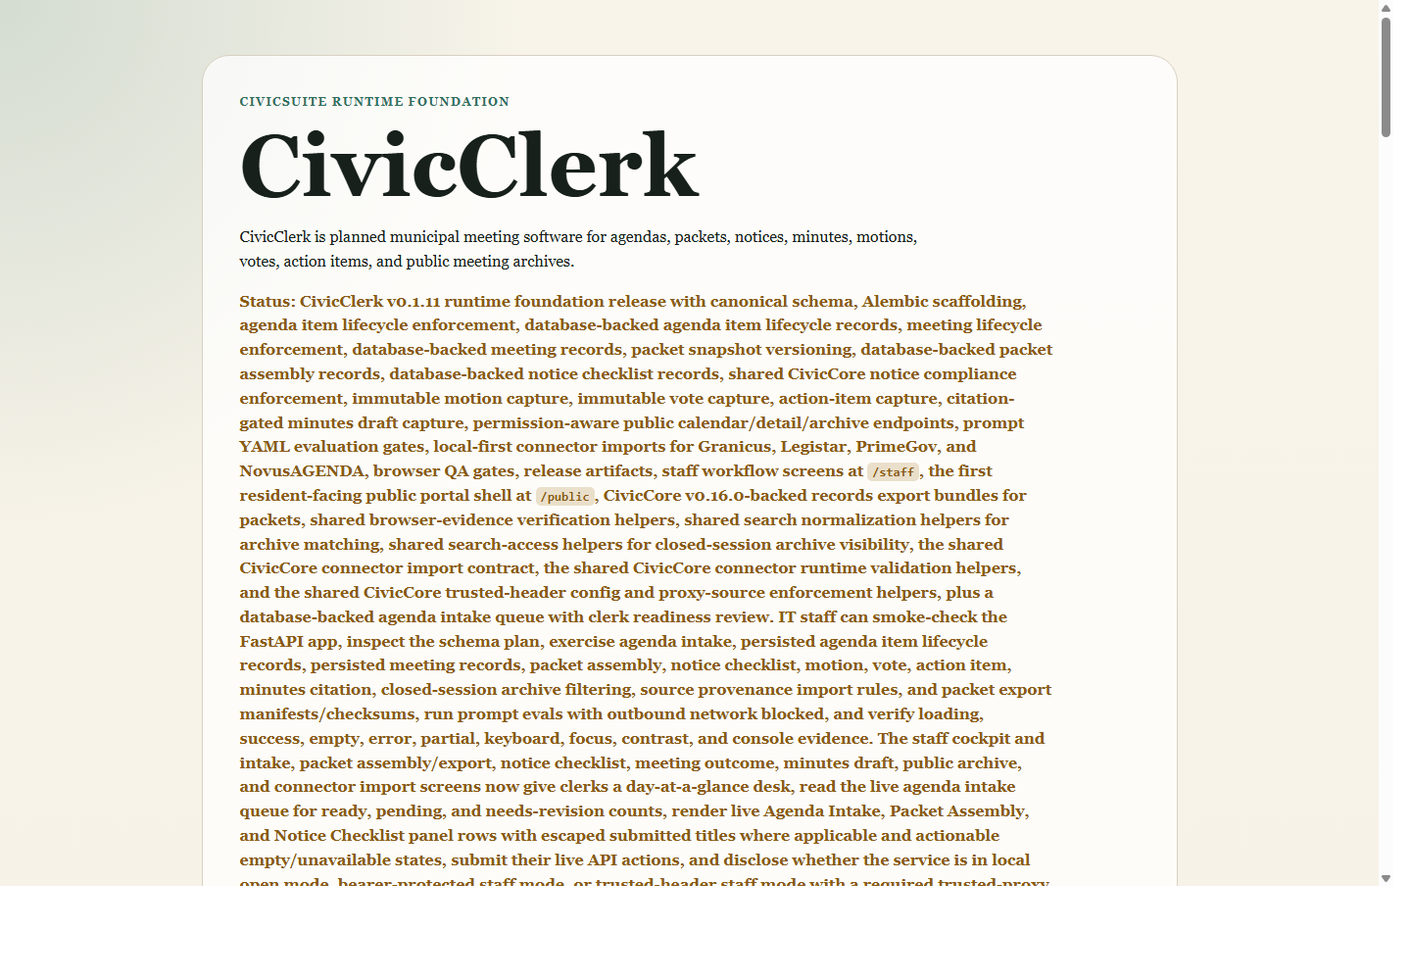
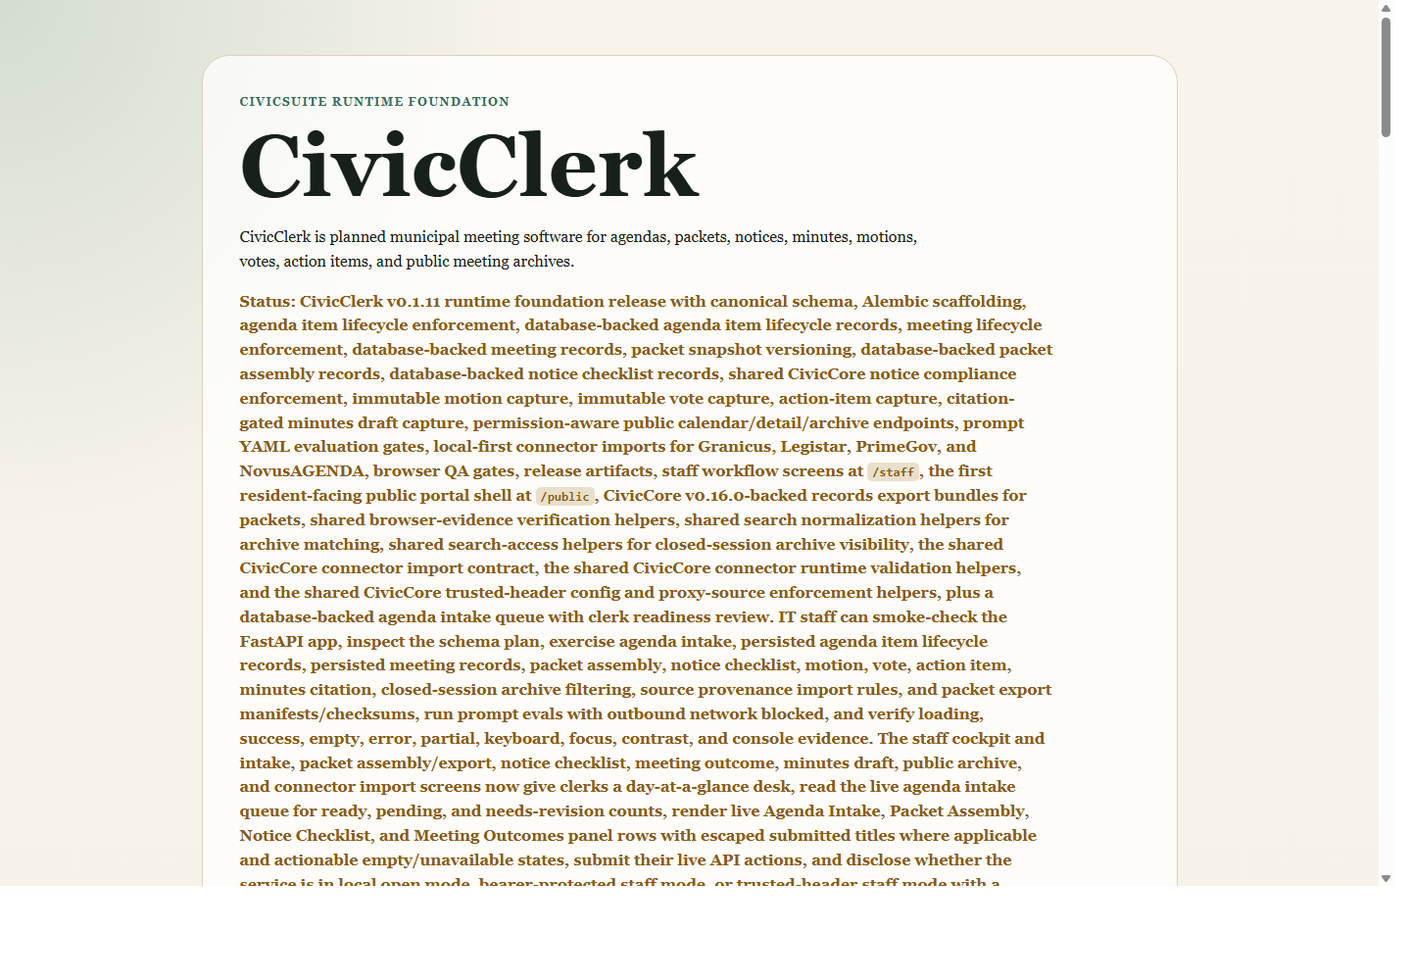
feat: render live meeting outcomes panel (#75)

Changed region(s): [[0.1562, 0.837, 0.75, 0.93]]

diff --git a/docs/index.html b/docs/index.html
@@ -51,7 +51,7 @@
       <div class="eyebrow">CivicSuite runtime foundation</div>
       <h1>CivicClerk</h1>
       <p>CivicClerk is planned municipal meeting software for agendas, packets, notices, minutes, motions, votes, action items, and public meeting archives.</p>
-<p class="status">Status: CivicClerk v0.1.11 runtime foundation release with canonical schema, Alembic scaffolding, agenda item lifecycle enforcement, database-backed agenda item lifecycle records, meeting lifecycle enforcement, database-backed meeting records, packet snapshot versioning, database-backed packet assembly records, database-backed notice checklist records, shared CivicCore notice compliance enforcement, immutable motion capture, immutable vote capture, action-item capture, citation-gated minutes draft capture, permission-aware public calendar/detail/archive endpoints, prompt YAML evaluation gates, local-first connector imports for Granicus, Legistar, PrimeGov, and NovusAGENDA, browser QA gates, release artifacts, staff workflow screens at <code>/staff</code>, the first resident-facing public portal shell at <code>/public</code>, CivicCore v0.16.0-backed records export bundles for packets, shared browser-evidence verification helpers, shared search normalization helpers for archive matching, shared search-access helpers for closed-session archive visibility, the shared CivicCore connector import contract, the shared CivicCore connector runtime validation helpers, and the shared CivicCore trusted-header config and proxy-source enforcement helpers, plus a database-backed agenda intake queue with clerk readiness review. IT staff can smoke-check the FastAPI app, inspect the schema plan, exercise agenda intake, persisted agenda item lifecycle records, persisted meeting records, packet assembly, notice checklist, motion, vote, action item, minutes citation, closed-session archive filtering, source provenance import rules, and packet export manifests/checksums, run prompt evals with outbound network blocked, and verify loading, success, empty, error, partial, keyboard, focus, contrast, and console evidence. The staff cockpit and intake, packet assembly/export, notice checklist, meeting outcome, minutes draft, public archive, and connector import screens now give clerks a day-at-a-glance desk, read the live agenda intake queue for ready, pending, and needs-revision counts, render live Agenda Intake, Packet Assembly, and Notice Checklist panel rows with escaped submitted titles where applicable and actionable empty/unavailable states, submit their live API actions, and disclose whether the service is in local open mode, bearer-protected staff mode, or trusted-header staff mode with a required trusted-proxy CIDR allowlist while full OIDC login remains future work. The <code>/public</code> shell now gives residents a public-safe browser view over public calendar, detail, and archive search APIs while saying the finished public portal remains future work. The new <code>/staff/auth-readiness</code> contract now tells operators whether the configured bearer-token or trusted-header bridge is merely present or actually deployment-ready before a live session check, returns a session probe plus a write probe for protected deployment smoke checks, and includes a loopback-only local proxy rehearsal contract for <code>scripts/local_trusted_header_proxy.py</code> with <code>127.0.0.1/32</code> as the safe starter allowlist.</p>
+<p class="status">Status: CivicClerk v0.1.11 runtime foundation release with canonical schema, Alembic scaffolding, agenda item lifecycle enforcement, database-backed agenda item lifecycle records, meeting lifecycle enforcement, database-backed meeting records, packet snapshot versioning, database-backed packet assembly records, database-backed notice checklist records, shared CivicCore notice compliance enforcement, immutable motion capture, immutable vote capture, action-item capture, citation-gated minutes draft capture, permission-aware public calendar/detail/archive endpoints, prompt YAML evaluation gates, local-first connector imports for Granicus, Legistar, PrimeGov, and NovusAGENDA, browser QA gates, release artifacts, staff workflow screens at <code>/staff</code>, the first resident-facing public portal shell at <code>/public</code>, CivicCore v0.16.0-backed records export bundles for packets, shared browser-evidence verification helpers, shared search normalization helpers for archive matching, shared search-access helpers for closed-session archive visibility, the shared CivicCore connector import contract, the shared CivicCore connector runtime validation helpers, and the shared CivicCore trusted-header config and proxy-source enforcement helpers, plus a database-backed agenda intake queue with clerk readiness review. IT staff can smoke-check the FastAPI app, inspect the schema plan, exercise agenda intake, persisted agenda item lifecycle records, persisted meeting records, packet assembly, notice checklist, motion, vote, action item, minutes citation, closed-session archive filtering, source provenance import rules, and packet export manifests/checksums, run prompt evals with outbound network blocked, and verify loading, success, empty, error, partial, keyboard, focus, contrast, and console evidence. The staff cockpit and intake, packet assembly/export, notice checklist, meeting outcome, minutes draft, public archive, and connector import screens now give clerks a day-at-a-glance desk, read the live agenda intake queue for ready, pending, and needs-revision counts, render live Agenda Intake, Packet Assembly, Notice Checklist, and Meeting Outcomes panel rows with escaped submitted titles where applicable and actionable empty/unavailable states, submit their live API actions, and disclose whether the service is in local open mode, bearer-protected staff mode, or trusted-header staff mode with a required trusted-proxy CIDR allowlist while full OIDC login remains future work. The <code>/public</code> shell now gives residents a public-safe browser view over public calendar, detail, and archive search APIs while saying the finished public portal remains future work. The new <code>/staff/auth-readiness</code> contract now tells operators whether the configured bearer-token or trusted-header bridge is merely present or actually deployment-ready before a live session check, returns a session probe plus a write probe for protected deployment smoke checks, and includes a loopback-only local proxy rehearsal contract for <code>scripts/local_trusted_header_proxy.py</code> with <code>127.0.0.1/32</code> as the safe starter allowlist.</p>
     </section>
 
     <section class="grid" aria-label="Product overview">

diff --git a/civicclerk/staff_ui.py b/civicclerk/staff_ui.py
@@ -176,6 +176,7 @@ def render_staff_dashboard(
     packet_assembly_available: bool = True,
     notice_checklist_records: Sequence[object] = (),
     notice_checklist_available: bool = True,
+    meeting_outcome_records: Sequence[object] = (),
 ) -> str:
     """Render the current staff workflow screens as dependency-free HTML."""
     screen_cards_data = _screen_cards_with_live_intake(
@@ -185,6 +186,7 @@ def render_staff_dashboard(
         packet_assembly_available=packet_assembly_available,
         notice_checklist_records=notice_checklist_records,
         notice_checklist_available=notice_checklist_available,
+        meeting_outcome_records=meeting_outcome_records,
     )
     nav_buttons = "\n".join(
         f"""
@@ -930,6 +932,7 @@ def _screen_cards_with_live_intake(
     packet_assembly_available: bool,
     notice_checklist_records: Sequence[object],
     notice_checklist_available: bool,
+    meeting_outcome_records: Sequence[object],
 ) -> list[dict]:
     screen_cards = [dict(card) for card in SCREEN_CARDS]
     screen_cards[0]["rows"] = _agenda_intake_rows(
@@ -943,6 +946,9 @@ def _screen_cards_with_live_intake(
     screen_cards[2]["rows"] = _notice_checklist_rows(
         notice_checklist_records=notice_checklist_records,
         notice_checklist_available=notice_checklist_available,
+    )
+    screen_cards[3]["rows"] = _meeting_outcome_rows(
+        meeting_outcome_records=meeting_outcome_records,
     )
     return screen_cards
 
@@ -1091,6 +1097,52 @@ def _bool_field(item: object, name: str) -> bool | None:
     else:
         value = getattr(item, name, None)
     return value if isinstance(value, bool) else None
+
+
+def _meeting_outcome_rows(
+    *,
+    meeting_outcome_records: Sequence[object],
+) -> list[tuple[str, str, str, str]]:
+    if not meeting_outcome_records:
+        return [
+            (
+                "Clerk",
+                "No meeting outcomes captured yet",
+                "EMPTY",
+                "Create a meeting, capture a motion, record a vote, and create any follow-up action item.",
+            )
+        ]
+    return [
+        (
+            _field(record, "actor", "Clerk"),
+            _field(record, "text", "Untitled motion"),
+            _field(record, "status", "UNKNOWN"),
+            _next_outcome_step(
+                _int_field(record, "vote_count"),
+                _int_field(record, "action_item_count"),
+                _field(record, "status", "UNKNOWN"),
+            ),
+        )
+        for record in meeting_outcome_records
+    ]
+
+
+def _int_field(item: object, name: str) -> int:
+    if isinstance(item, Mapping):
+        value = item.get(name)
+    else:
+        value = getattr(item, name, None)
+    return value if isinstance(value, int) else 0
+
+
+def _next_outcome_step(vote_count: int, action_item_count: int, status: str) -> str:
+    if status == "APPENDED":
+        return "Correction appended; original outcome remains preserved."
+    if vote_count > 0 and action_item_count > 0:
+        return "Vote recorded; action item open."
+    if vote_count > 0:
+        return "Vote recorded; create an action item if follow-up is needed."
+    return "Record the vote for this captured motion."
 
 
 def _render_screen_card(card: dict, active: bool) -> str:

diff --git a/tests/test_milestone_13_staff_workflow_ui.py b/tests/test_milestone_13_staff_workflow_ui.py
@@ -87,6 +87,8 @@ async def test_staff_ui_endpoint_renders_accessible_workflow_foundation() -> Non
     assert "Check notice and attach proof" in html
     assert "Meeting Outcomes" in html
     assert "Motions, votes, and actions" in html
+    assert "No meeting outcomes captured yet" in html
+    assert "Create a meeting, capture a motion, record a vote, and create any follow-up action item." in html
     assert "/meetings/{id}/motions" in html
     assert "/meetings/{id}/action-items" in html
     assert "Live meeting outcomes action" in html
@@ -308,6 +310,45 @@ async def test_staff_notice_panel_handles_unavailable_notice_store(monkeypatch) 
     assert response.status_code == 200
     assert "Notice checklist store unavailable" in response.text
     assert "Check CIVICCLERK_NOTICE_CHECKLIST_DB_URL and database reachability" in response.text
+
+
+async def test_staff_meeting_outcomes_panel_uses_live_outcome_rows() -> None:
+    async with AsyncClient(transport=ASGITransport(app=app), base_url="http://testserver") as client:
+        meeting = await client.post(
+            "/meetings",
+            json={
+                "title": "Live Outcomes Meeting",
+                "meeting_type": "regular",
+                "scheduled_start": "2026-05-05T19:00:00Z",
+            },
+        )
+        motion = await client.post(
+            f"/meetings/{meeting.json()['id']}/motions",
+            json={
+                "text": "Approve <script>street repairs</script>",
+                "actor": "clerk@example.gov",
+            },
+        )
+        await client.post(
+            f"/motions/{motion.json()['id']}/votes",
+            json={"voter_name": "Council Member Rivera", "vote": "aye", "actor": "clerk@example.gov"},
+        )
+        await client.post(
+            f"/meetings/{meeting.json()['id']}/action-items",
+            json={
+                "description": "Schedule contractor notice.",
+                "assigned_to": "Public Works",
+                "actor": "clerk@example.gov",
+                "source_motion_id": motion.json()["id"],
+            },
+        )
+        response = await client.get("/staff")
+
+    assert response.status_code == 200
+    assert "Approve &lt;script&gt;street repairs&lt;/script&gt;" in response.text
+    assert "Approve <script>street repairs</script>" not in response.text
+    assert "CAPTURED" in response.text
+    assert "Vote recorded; action item open." in response.text
 
 
 async def test_favicon_is_public_and_empty() -> None:

diff --git a/civicclerk/motion_vote.py b/civicclerk/motion_vote.py
@@ -76,6 +76,17 @@ class ActionItemRecord:
         }
 
 
+@dataclass(frozen=True)
+class MeetingOutcomeSummary:
+    meeting_id: str
+    motion_id: str
+    text: str
+    actor: str
+    status: str
+    vote_count: int
+    action_item_count: int
+
+
 class MotionVoteStore:
     """In-memory capture store until database-backed workflow persistence lands."""
 
@@ -215,9 +226,35 @@ class MotionVoteStore:
             for action_item_id in self._action_items_by_meeting.get(meeting_id, [])
         ]
 
+    def list_recent_outcomes(self, *, limit: int = 5) -> list[MeetingOutcomeSummary]:
+        """Return recent motion-centered outcome summaries for the staff dashboard."""
+
+        summaries: list[MeetingOutcomeSummary] = []
+        for motion in reversed(list(self._motions.values())):
+            action_item_count = sum(
+                1
+                for action_item_id in self._action_items_by_meeting.get(motion.meeting_id, [])
+                if self._action_items[action_item_id].source_motion_id == motion.id
+            )
+            summaries.append(
+                MeetingOutcomeSummary(
+                    meeting_id=motion.meeting_id,
+                    motion_id=motion.id,
+                    text=motion.text,
+                    actor=motion.actor,
+                    status="APPENDED" if motion.correction_of_id else "CAPTURED",
+                    vote_count=len(self._votes_by_motion.get(motion.id, [])),
+                    action_item_count=action_item_count,
+                )
+            )
+            if len(summaries) >= limit:
+                break
+        return summaries
+
 
 __all__ = [
     "ActionItemRecord",
+    "MeetingOutcomeSummary",
     "MotionRecord",
     "MotionVoteStore",
     "VoteRecord",

diff --git a/tests/test_milestone_6_motion_vote_action_capture.py b/tests/test_milestone_6_motion_vote_action_capture.py
@@ -6,6 +6,7 @@ import pytest
 from httpx import ASGITransport, AsyncClient
 
 from civicclerk.main import app
+from civicclerk.motion_vote import MotionVoteStore
 
 ROOT = Path(__file__).resolve().parents[1]
 
@@ -238,6 +239,42 @@ async def test_action_item_requires_source_motion_with_actionable_error() -> Non
     detail = rejected.json()["detail"]
     assert detail["message"] == "Action items must reference a captured meeting outcome."
     assert "Capture the related motion first" in detail["fix"]
+
+
+def test_motion_vote_store_lists_recent_outcome_summaries() -> None:
+    store = MotionVoteStore()
+    first = store.capture_motion(
+        meeting_id="meeting-1",
+        text="Move to approve sidewalk repairs.",
+        actor="clerk@example.gov",
+    )
+    second = store.capture_motion(
+        meeting_id="meeting-2",
+        text="Move to award the paving contract.",
+        actor="deputy@example.gov",
+    )
+    store.capture_vote(
+        motion_id=second.id,
+        voter_name="Council Member Rivera",
+        vote="aye",
+        actor="clerk@example.gov",
+    )
+    store.create_action_item(
+        meeting_id="meeting-2",
+        description="Schedule contract signing.",
+        actor="clerk@example.gov",
+        source_motion_id=second.id,
+    )
+
+    recent = store.list_recent_outcomes(limit=1)
+
+    assert len(recent) == 1
+    assert recent[0].motion_id == second.id
+    assert recent[0].meeting_id == "meeting-2"
+    assert recent[0].vote_count == 1
+    assert recent[0].action_item_count == 1
+    assert recent[0].status == "CAPTURED"
+    assert recent[0].motion_id != first.id
 
 
 def test_docs_record_motion_vote_action_scope_without_claiming_minutes_or_archive_behavior() -> None:

diff --git a/civicclerk/main.py b/civicclerk/main.py
@@ -370,6 +370,7 @@ async def staff_dashboard() -> str:
         packet_assembly_available=packet_assembly_available,
         notice_checklist_records=notice_checklist_records,
         notice_checklist_available=notice_checklist_available,
+        meeting_outcome_records=motion_votes.list_recent_outcomes(),
     )
 
 

diff --git a/README.md b/README.md
@@ -200,7 +200,7 @@ CivicClerk follows the CivicSuite pattern:
 
 The foundation is intentionally thin. Canonical schema, Alembic scaffolding, agenda item lifecycle enforcement, agenda item lifecycle persistence, meeting lifecycle enforcement, meeting records, packet snapshot versioning, packet assembly records, notice checklist records, shared notice compliance enforcement, immutable motion capture, immutable vote capture, action-item capture, citation-gated minutes draft capture, permission-aware public archive endpoints, prompt YAML/evaluation gates, local-first connector import normalization, browser QA gates, CivicClerk v0.1.11 release artifacts, and CivicCore v0.16.0 packet export, browser-evidence verification, connector runtime validation, and trusted-header config enforcement primitives are present. Minutes drafts require sentence-level citations, YAML prompt-version provenance, and human approval before acceptance, and they are never auto-adopted or auto-posted. Anonymous public archive endpoints do not reveal closed-session content in response bodies, counts, suggestions, or error messages. Connector imports record source provenance and do not require outbound network calls in the default local profile. Public packet exports block closed-session/restricted sources and include manifest, checksum, provenance, and audit evidence. Agenda item records now persist lifecycle status and audit entries when `CIVICCLERK_AGENDA_ITEM_DB_URL` is configured. Meeting records now persist scheduled starts, normalized meeting type, lifecycle status, and audit entries when `CIVICCLERK_MEETING_DB_URL` is configured. Packet assembly records now persist source references, citations, linked packet snapshot ids, and durable audit hashes. Notice checklist records persist compliance outcomes, warnings, posting proof, and durable audit hashes. Browser QA now checks loading, success, empty, error, and partial states plus keyboard, focus, contrast, and console evidence, and release screenshots are bound to the current docs page through shared CivicCore verification helpers. CivicClerk v0.1.11 now pairs with the published `civiccore` v0.16.0 release wheel. The first staff auth foundation is now explicit: local rehearsals can stay in `CIVICCLERK_STAFF_AUTH_MODE=open`, bearer-protected deployments can set `CIVICCLERK_STAFF_AUTH_MODE=bearer` plus `CIVICCLERK_STAFF_AUTH_TOKEN_ROLES`, and trusted reverse-proxy deployments can set `CIVICCLERK_STAFF_AUTH_MODE=trusted_header` plus `CIVICCLERK_STAFF_SSO_PRINCIPAL_HEADER`, `CIVICCLERK_STAFF_SSO_ROLES_HEADER`, `CIVICCLERK_STAFF_SSO_PROVIDER`, and `CIVICCLERK_STAFF_SSO_TRUSTED_PROXIES` until full OIDC login lands. The `/staff/auth-readiness` endpoint now tells operators whether those bearer or trusted-proxy settings are merely present or actually deployment-ready, and it includes a loopback-only rehearsal recipe so trusted-header testing does not require inventing a custom proxy first.
 
-The staff experience at `/staff` now includes a product cockpit plus first workflow screens for agenda intake, packet assembly/export, notice checklist/posting-proof, meeting outcome, minutes draft, public archive, and connector import work. It is intentionally honest: the cockpit gives clerks a day-at-a-glance desk, reads the live agenda intake queue for ready/pending/needs-revision counts, the Agenda Intake, Packet Assembly, and Notice Checklist panels render live queue/record rows with escaped user-submitted titles where applicable and actionable empty/unavailable-store rows, the seven workflow screens can submit their corresponding live API actions, the auth panel now renders concrete protected-session and protected-write probes from `/staff/auth-readiness` when bearer or trusted-header mode is ready, it surfaces the loopback-only local proxy rehearsal command and env vars when trusted-header mode is being staged, and the broader multi-role React clerk console remains future work. The resident-facing `/public` shell now gives the same honesty on the public side: it loads public calendar records, public-safe detail, and anonymous archive search from the live public APIs, shows actionable loading/empty/error states, and says the finished public portal is still future work.
+The staff experience at `/staff` now includes a product cockpit plus first workflow screens for agenda intake, packet assembly/export, notice checklist/posting-proof, meeting outcome, minutes draft, public archive, and connector import work. It is intentionally honest: the cockpit gives clerks a day-at-a-glance desk, reads the live agenda intake queue for ready/pending/needs-revision counts, the Agenda Intake, Packet Assembly, Notice Checklist, and Meeting Outcomes panels render live queue/record rows with escaped user-submitted titles where applicable and actionable empty/unavailable-store rows, the seven workflow screens can submit their corresponding live API actions, the auth panel now renders concrete protected-session and protected-write probes from `/staff/auth-readiness` when bearer or trusted-header mode is ready, it surfaces the loopback-only local proxy rehearsal command and env vars when trusted-header mode is being staged, and the broader multi-role React clerk console remains future work. The resident-facing `/public` shell now gives the same honesty on the public side: it loads public calendar records, public-safe detail, and anonymous archive search from the live public APIs, shows actionable loading/empty/error states, and says the finished public portal is still future work.
 
 For the first real trusted-header deployment handoff, `docs/examples/trusted-header-nginx.conf` now ships a reference nginx bridge that strips client-supplied identity headers, sets proxy-owned staff headers, and points operators back to `CIVICCLERK_STAFF_SSO_TRUSTED_PROXIES` plus the `/staff/auth-readiness` contract before live staff traffic is trusted.
 

diff --git a/docs/screenshots/milestone13-staff-ui-summary.md b/docs/screenshots/milestone13-staff-ui-summary.md
@@ -8,6 +8,7 @@
 - Live Agenda Intake panel checked: the panel renders `No intake items yet` with a creation fix path when the queue is empty, live reviewed queue rows when records exist, escaped submitted titles, and an actionable unavailable-store row when the database cannot be reached
 - Live Packet Assembly panel checked: the panel renders `No packet assemblies yet` with a creation fix path when no packet work exists, recent live packet assembly rows when records exist, escaped packet titles, and an actionable unavailable-store row when the database cannot be reached
 - Live Notice Checklist panel checked: the panel renders `No notice checklist records yet` with a creation fix path when no notice work exists, recent live notice rows when records exist, posting-proof status, and an actionable unavailable-store row when the database cannot be reached
+- Live Meeting Outcomes panel checked: the panel renders `No meeting outcomes captured yet` with a creation fix path when no outcomes exist, and recent live motion-centered rows with vote/action status when clerks capture meeting outcomes
 - Desktop evidence: `docs/screenshots/milestone13-staff-ui-desktop.png`
 - Mobile evidence: `docs/screenshots/milestone13-staff-ui-mobile.png`
 - Console: 0 messages expected from the shipped auth panel flow and no browser gate failures in `python scripts/verify-browser-qa.py`

diff --git a/USER-MANUAL.md b/USER-MANUAL.md
@@ -64,7 +64,8 @@ unavailable-store states. The Packet Assembly panel renders recent live packet
 assembly records with escaped packet titles plus actionable empty and
 unavailable-store states. The Notice Checklist panel renders recent live notice
 records with posting-proof status plus actionable empty and unavailable-store
-states. The workflow forms can submit
+states. The Meeting Outcomes panel renders recent live motion-centered outcome
+rows with vote/action status plus an actionable empty state. The workflow forms can submit
 intake items, record readiness review, create/finalize packet assembly records,
 create records-ready packet export bundles, persist notice checklist records, attach posting proof, capture
 motions/votes/action items, create citation-gated minutes drafts, publish

diff --git a/CHANGELOG.md b/CHANGELOG.md
@@ -19,6 +19,9 @@ All notable changes to CivicClerk are documented here.
 - The `/staff` Notice Checklist panel now renders recent live notice checklist
   records instead of sample data, including posting-proof status plus actionable
   empty or unavailable-store rows.
+- The `/staff` Meeting Outcomes panel now renders recent live motion-centered
+  outcome rows instead of sample data, including vote/action status and
+  actionable empty rows.
 - `scripts/check_connector_sync_readiness.py` now verifies the supported
   Granicus, Legistar, PrimeGov, and NovusAGENDA local payload contracts without
   outbound network calls before future scheduled live-sync work.
